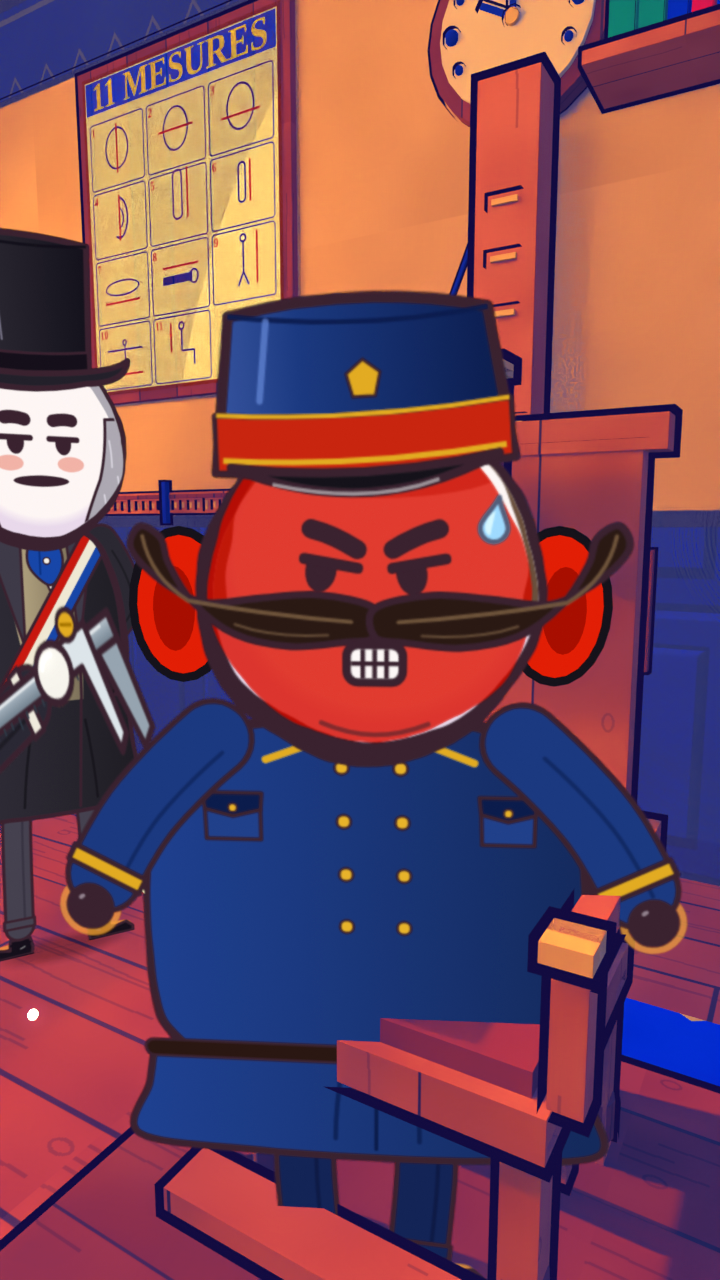
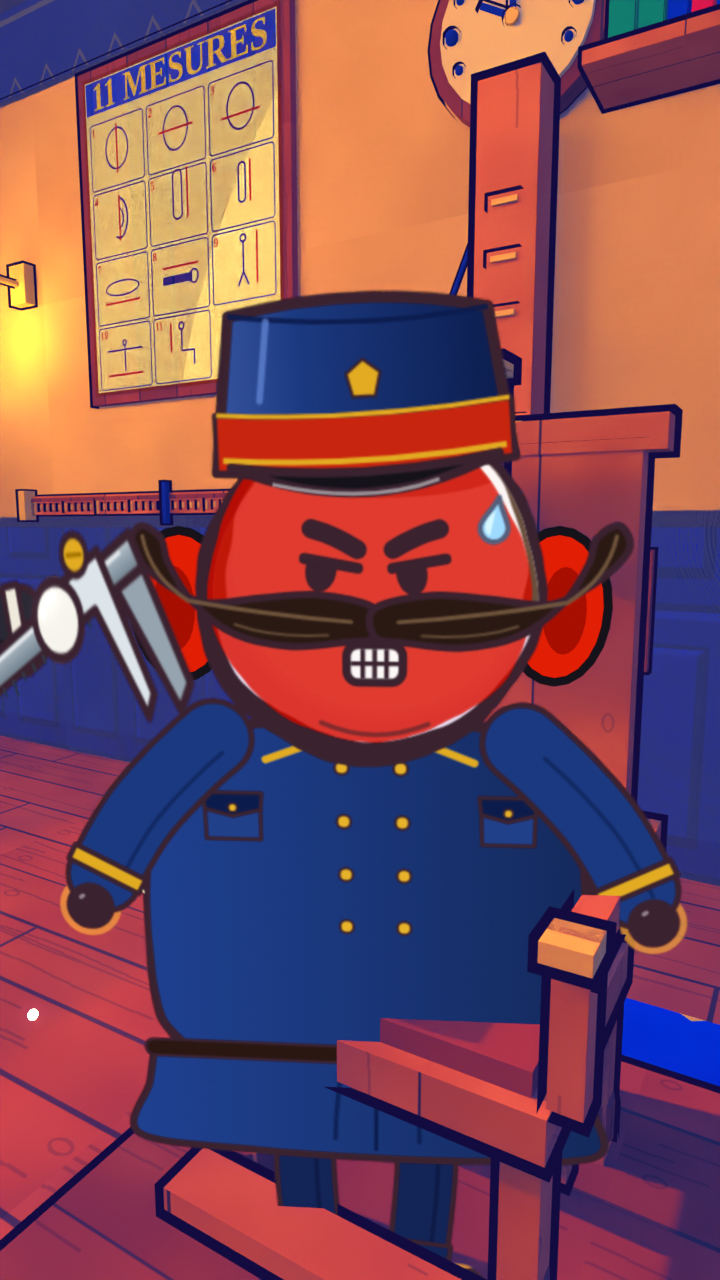
T8 fix 2: jaws straddle ear at g2052, prefect aside, Bertillon full height; stills
Claude-Session: https://claude.ai/code/session_017iwyCvLKPn3mZSxQ5FttdH

Changed region(s): [[0.0, 0.1562, 0.275, 0.75], [0.275, 0.375, 0.3361, 0.4062]]

diff --git a/film/v3/film17v2/T8/render.py b/film/v3/film17v2/T8/render.py
@@ -79,13 +79,13 @@ def _ramp(g, a, b): return (g - a) / float(b - a)
 I_c, I_p = S['inspector_seated_stiff']
 S['insp_red_seated'] = (I_c, dict(I_p, expr='furious', mouth='clench', flush17=1.0, fx=['sweat'], seat17='chair', pitch=0.0, yaw=0.10, gaze=(-0.8, 0.0)))   # red-faced, sitting stiff
 B_c, B_p = S['bertillon_measuring']
-BDX0 = float(os.environ.get('BDX0', -1.25)); BHS = float(os.environ.get('BHS', 0.8))
-BDXE = float(os.environ.get('BDXE', -1.1)); BDX2 = float(os.environ.get('BDX2', -1.1)); SHY = float(os.environ.get('SHY', 0.14)); SHG0 = int(os.environ.get('SHG0', 1868)); SHG1 = int(os.environ.get('SHG1', 1892)); PFDX = float(os.environ.get('PFDX', 0.5)); BDG0 = int(os.environ.get('BDG0', 2030))
+BDX0 = float(os.environ.get('BDX0', -1.25)); BHS = float(os.environ.get('BHS', 1.0))
+BDXE = float(os.environ.get('BDXE', -1.1)); BDX2 = float(os.environ.get('BDX2', -1.2)); SHY = float(os.environ.get('SHY', 0.14)); SHG0 = int(os.environ.get('SHG0', 1868)); SHG1 = int(os.environ.get('SHG1', 1892)); PFDX = float(os.environ.get('PFDX', -0.6)); BDG0 = int(os.environ.get('BDG0', 2030))
 def bnudge(g):
     """Bertillon's offset from his anchor ML(1.3,1.85): beside the chair on the inspector's right (screen-left), nearer the camera than the head so the jaws draw in front;
     he steps toward the chair for the clamp (g2012-2040) so the glove stays in frame as the camera pushes in."""
-    return (BDX0 + (BDXE - BDX0) * _ss(_ramp(g, 2012, 2040)) + (BDX2 - BDXE) * _ss(_ramp(g, BDG0, 2052)), -0.10)     # dx, dy (m): Bertillon stands beside the chair (not in front of the inspector's face), same depth as the chair
-EAR_X = 0.52; EAR_ANG = -30
+    return (BDX0 + (BDXE - BDX0) * _ss(_ramp(g, 2012, 2040)) + (BDX2 - BDXE) * _ss(_ramp(g, BDG0, 2040)), -0.10)     # dx, dy (m): Bertillon stands beside the chair (not in front of the inspector's face), same depth as the chair
+EAR_X = 0.52; EAR_ANG = float(os.environ.get('EAR_ANG', -30))
 
 
 def bertillon_pose(g):
@@ -132,7 +132,7 @@ def ear_target(g):
     hs = 1 - (1 - BHS) * _ss(_ramp(g, 2012, 2040)); sb = P.K.CAST_H['bertillon'] * hs / P.K.CAST_HD['bertillon']; si = P.K.CAST_H['inspector17'] / P.K.CAST_HD['inspector17']
     dx = (pi[0] - (pb[0] + bnudge(g)[0]) - EAR_X * si) / sb          # world +x is screen right here (camera looks +y); the ear is 0.5 D left of the inspector's head
     zi = P.FZ + P.K.HEAD_Z['chair'] + 0.10 * si; zb = P.FZ + P.K.CAST_H['bertillon'] * hs - 0.51 * sb - 0.0   # head centre height of Bertillon (head top 0.51 D above the head centre)
-    return (dx + (float(os.environ.get('TX', 0.27)) + float(os.environ.get('TX2', 0.5)) * _ss(_ramp(g, 2024, 2052))), (zb - zi) / sb + float(os.environ.get('TY', 0.18)))       # +(-0.08, +0.18) D: measured on the g2052 still (jaws onto the ear, not above it)
+    return (dx + (float(os.environ.get('TX', 0.27)) + float(os.environ.get('TX2', 0.25)) * _ss(_ramp(g, 2024, 2040))), (zb - zi) / sb + float(os.environ.get('TY', 0.18)) + float(os.environ.get('TY2', 0.0)) * _ss(_ramp(g, 2024, 2040)))       # +(-0.08, +0.18) D: measured on the g2052 still (jaws onto the ear, not above it)
 
 _orig_sc = P.K.sliding_calipers
 def _sc(B, c, *a, **k):          # director: the thin light stick by the small table = calipers lying on it; hidden for T8
